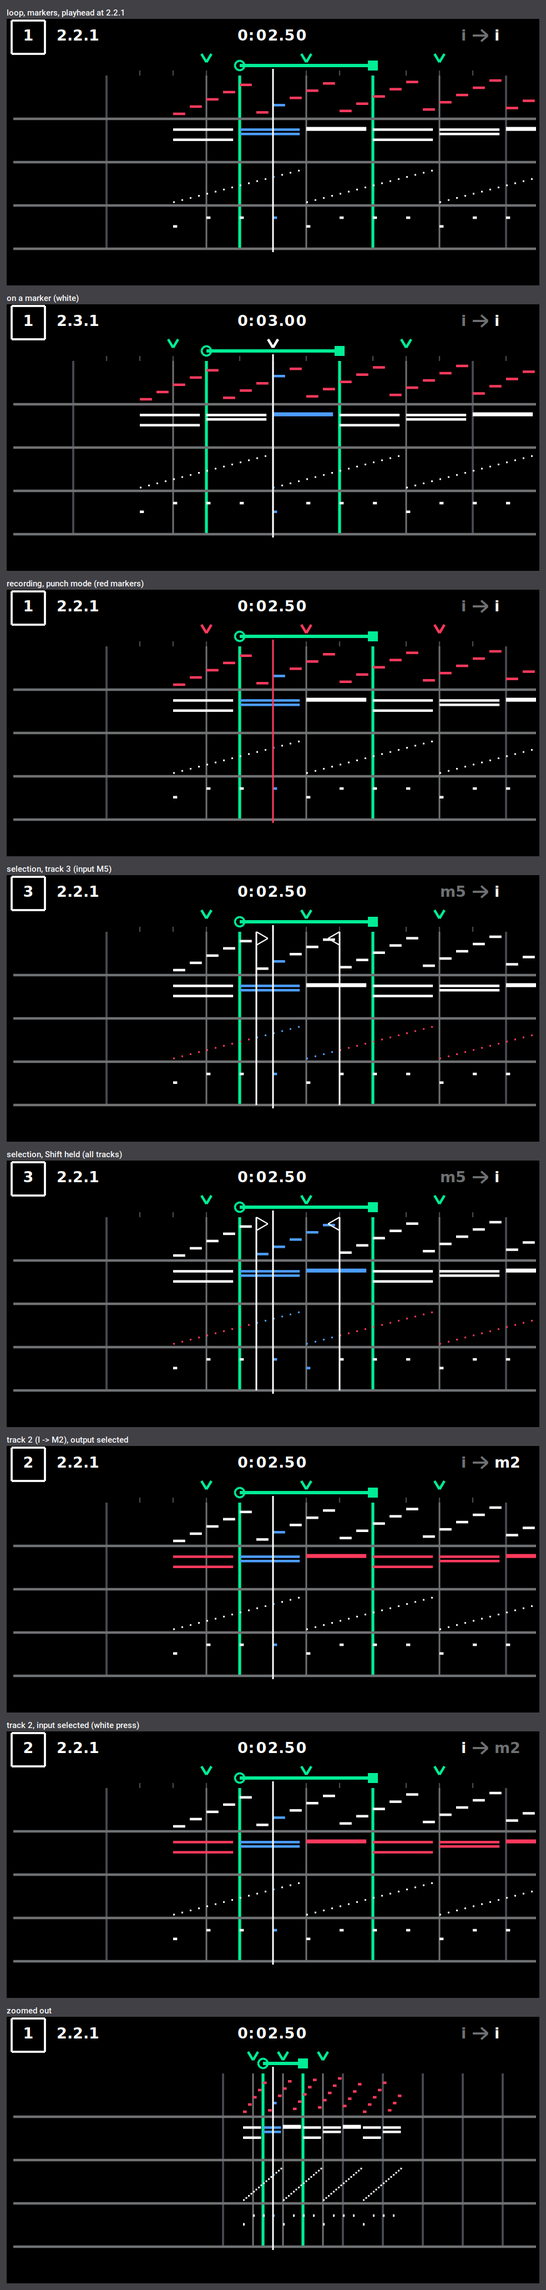
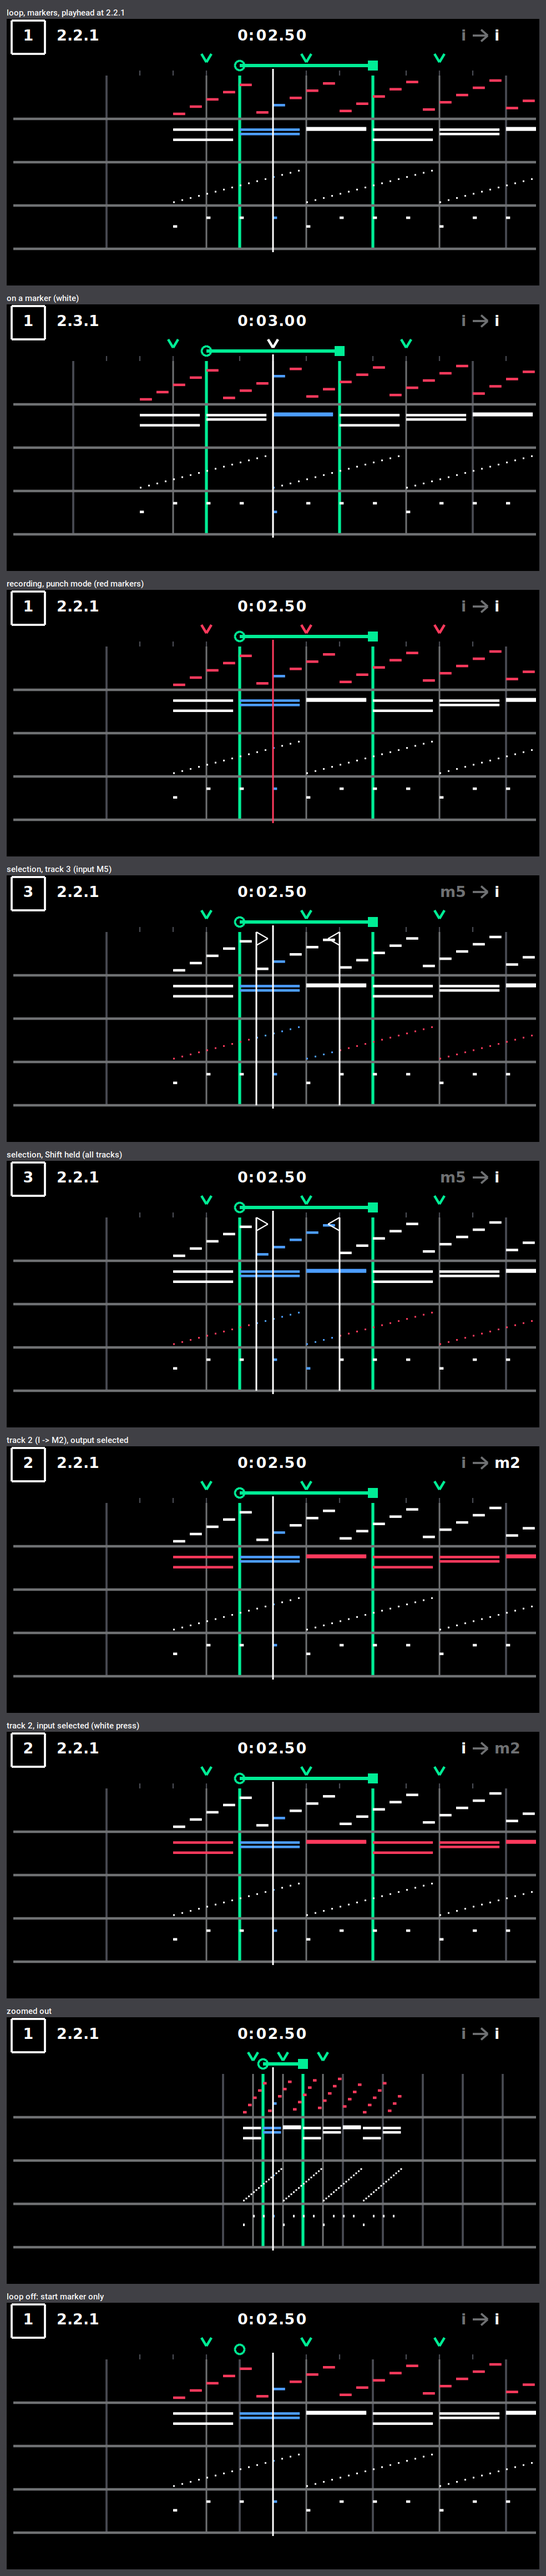
midi recorder: loop off keeps the loop start ring (as the tape screen)

Changed region(s): [[0.0, 0.0, 1.0, 0.9932], [0.0305, 0.0, 0.2134, 0.031]]

diff --git a/synth_sdk/seqdev/ms_draw.c b/synth_sdk/seqdev/ms_draw.c
@@ -125,6 +125,10 @@ void ms_draw(void *r, const ms_view *v, ms_t *s)
         if (ON(xi)) { sq_line(r, xi, LANE_Y(0), xi, LANE_Y(4), 0x700, c_green); ring(r, xi, BAND_Y, OP1_Q10(3), 0x500, c_green); }
         if (ON(xo)) { sq_line(r, xo, LANE_Y(0), xo, LANE_Y(4), 0x700, c_green); sq_line(r, xo - OP1_Q10(3), BAND_Y, xo + OP1_Q10(3), BAND_Y, OP1_Q10(6), c_green); }
     }
+    else if (v->loop_in >= 0) {                          /* loop off: the start marker stays (as the tape's ring) */
+        int32_t xi = MS_X(v->loop_in);
+        if (ON(xi)) ring(r, xi, BAND_Y, OP1_Q10(3), 0x500, c_green);
+    }
 
     /* tape markers (as tape/markers.c: caret v, white within 3 px of the playhead, red while punch mode is on; grey
      * line through the tracks) */

diff --git a/synth_sdk/harness/mseq_render.c b/synth_sdk/harness/mseq_render.c
@@ -69,5 +69,6 @@ int main(void)
     v.sel_a = v.sel_b = -1; v.sel_track = 1; frame("track 2 (I -> M2), output selected", &v);
     v.io = 1; frame("track 2, input selected (white press)", &v); v.io = 0; v.sel_track = 2;
     v.zoom_q10 = 12 << 10; v.sel_a = v.sel_b = -1; v.sel_track = 0; frame("zoomed out", &v);
+    v.zoom_q10 = 40 << 10; v.loop_on = 0; frame("loop off: start marker only", &v);
     return 0;
 }
